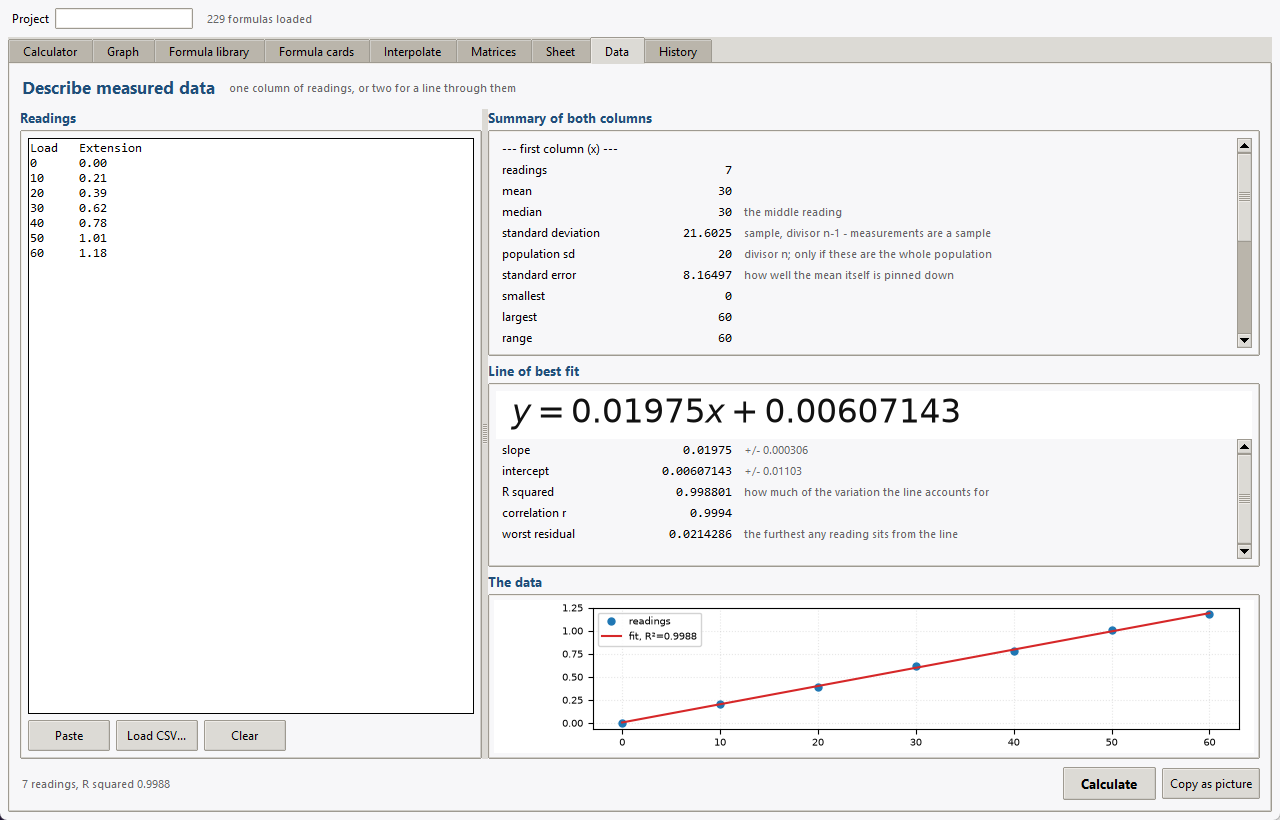
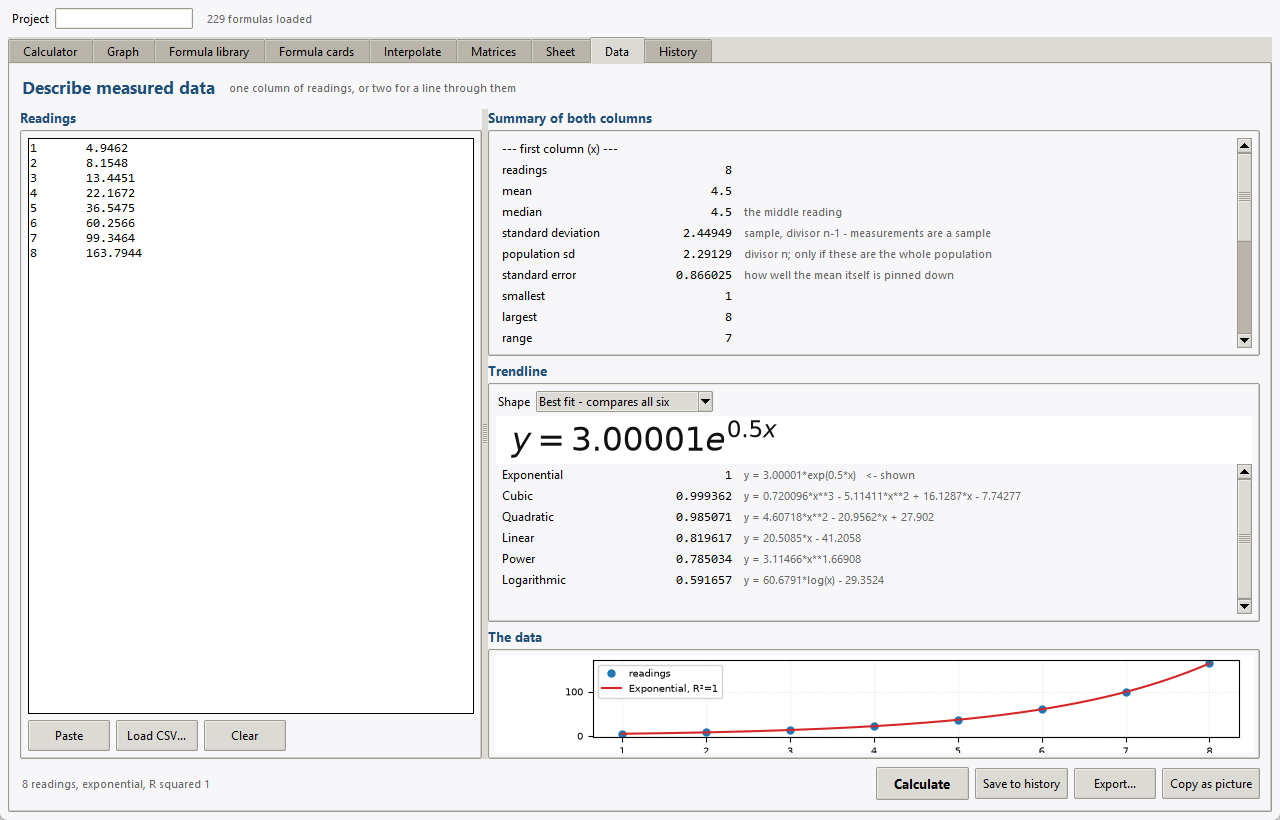
Version 1.3.0, and the screenshots for it

diff --git a/docs/take_screenshots.py b/docs/take_screenshots.py
@@ -1,0 +1,118 @@
+"""Take the screenshots the README and the release page use.
+
+Run from the project root with the virtualenv's Python. Each shot is the
+window at the size the rest of them were taken at, so the release page does
+not end up a patchwork of different sizes.
+
+The window is raised before each grab: this captures the screen, so anything
+sitting in front of it would otherwise end up in the picture.
+"""
+
+from __future__ import annotations
+
+import os
+import sys
+import tempfile
+import time
+
+import matplotlib
+
+matplotlib.use("Agg")
+
+from PIL import ImageGrab                                       # noqa: E402
+
+from engicalc.core.engine import calculate                      # noqa: E402
+from engicalc.ui.app import EngiCalcApp                         # noqa: E402
+
+SIZE = "1280x820+40+40"
+HERE = os.path.join(os.path.dirname(os.path.abspath(__file__)), "screenshots")
+
+
+def settle(app, seconds: float = 1.2) -> None:
+    app.attributes("-topmost", True)
+    app.lift()
+    app.focus_force()
+    end = time.time() + seconds
+    while time.time() < end:
+        app.update()
+        app.update_idletasks()
+        time.sleep(0.05)
+
+
+def grab(app, name: str) -> None:
+    settle(app)
+    x, y = app.winfo_rootx(), app.winfo_rooty()
+    width, height = app.winfo_width(), app.winfo_height()
+    path = os.path.join(HERE, name)
+    ImageGrab.grab(bbox=(x, y, x + width, y + height)).save(path)
+    print(f"  {name}  {width}x{height}")
+
+
+def top_tab(app, label: str) -> None:
+    for index in range(len(app.notebook.tabs())):
+        if app.notebook.tab(index, "text").strip() == label:
+            app.notebook.select(index)
+            return
+    raise SystemExit(f"no tab called {label!r}")
+
+
+def main() -> None:
+    os.makedirs(HERE, exist_ok=True)
+    app = EngiCalcApp(db_path=os.path.join(tempfile.mkdtemp(), "shots.db"))
+    app.geometry(SIZE)
+    app.update()
+    app.update_idletasks()
+
+    # -- equations solved together ---------------------------------------
+    top_tab(app, "Calculator")
+    app.calculator_pane.show_simultaneous()
+    solver = app.simultaneous_tab
+    solver.solve()
+    deadline = time.time() + 20
+    while time.time() < deadline and solver.result is None:
+        app.update()
+        time.sleep(0.02)
+    grab(app, "simultaneous.png")
+
+    # -- the unit converter ----------------------------------------------
+    app.calculator_pane.tabs.select(app.units_tab)
+    units = app.units_tab
+    units.category.set("Pressure")
+    units._category_changed()
+    units.value.set("2.5")
+    units.source.set("bar")
+    units.target.set("psi")
+    units.convert()
+    grab(app, "units.png")
+
+    # -- the working, expanded -------------------------------------------
+    app.calculator_pane.show_calculator()
+    app.show_working.set(True)
+    calculator = app.calculator_tab
+    # The integral, because that is the gap this exists to fill: the jump
+    # from 2x to x squared with nothing in between. It is also short enough
+    # that the rules are on screen rather than below the fold.
+    calculator.input_var.set("2x")
+    calculator.op_var.set("integral")
+    calculator._sync_options()
+    calculator.result = calculate("2x", "integral", "x")
+    calculator._show(calculator.result)
+    grab(app, "working.png")
+    app.show_working.set(False)
+
+    # -- trendlines, on data that is not straight -------------------------
+    top_tab(app, "Data")
+    data = app.statistics_tab
+    data.data_text.delete("1.0", "end")
+    data.data_text.insert("1.0", "\n".join(
+        f"{x}\t{3 * 2.718281828 ** (0.5 * x):.4f}" for x in range(1, 9)))
+    data.compute()
+    grab(app, "statistics.png")
+
+    app.update_idletasks()
+    app.destroy()
+    print("done")
+
+
+if __name__ == "__main__":
+    sys.exit(main())

diff --git a/engicalc/__init__.py b/engicalc/__init__.py
@@ -1,3 +1,3 @@
 """EngiCalc - equation solver, grapher and engineering formula library."""
 
-__version__ = "1.2.1"
+__version__ = "1.3.0"

diff --git a/README.md b/README.md
@@ -33,7 +33,11 @@ the area it measures shaded underneath and the working beside it.*
 | ![Matrices](docs/screenshots/matrices.png) | ![Interpolation](docs/screenshots/interpolate.png) |
 | **Matrices** - several equations solved at once | **Interpolation** - reading between the rows of a table |
 | ![Formula library](docs/screenshots/formula_library.png) | ![Graphing](docs/screenshots/graph.png) |
-| **212 formulas**, each rearranging for any variable | **Graphing** - explicit, implicit, parametric and polar |
+| **229 formulas**, each rearranging for any variable | **Graphing** - explicit, implicit, parametric and polar |
+| ![Solved together](docs/screenshots/simultaneous.png) | ![Units](docs/screenshots/units.png) |
+| **Equations solved together** - in any order, with the count before the answer | **Units** - and the same value in everything else that measures it |
+| ![All working](docs/screenshots/working.png) | ![Trendlines](docs/screenshots/statistics.png) |
+| **All working** - the rule stated, then applied | **Trendlines** - six shapes, scored so they compare |
 
 ---
 
